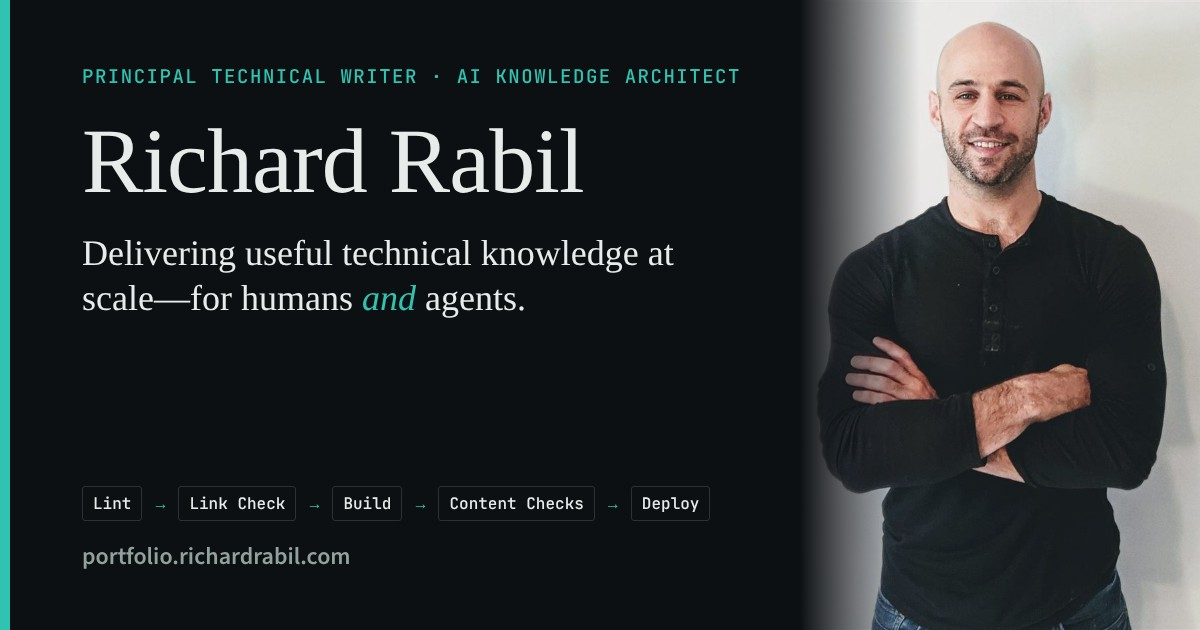
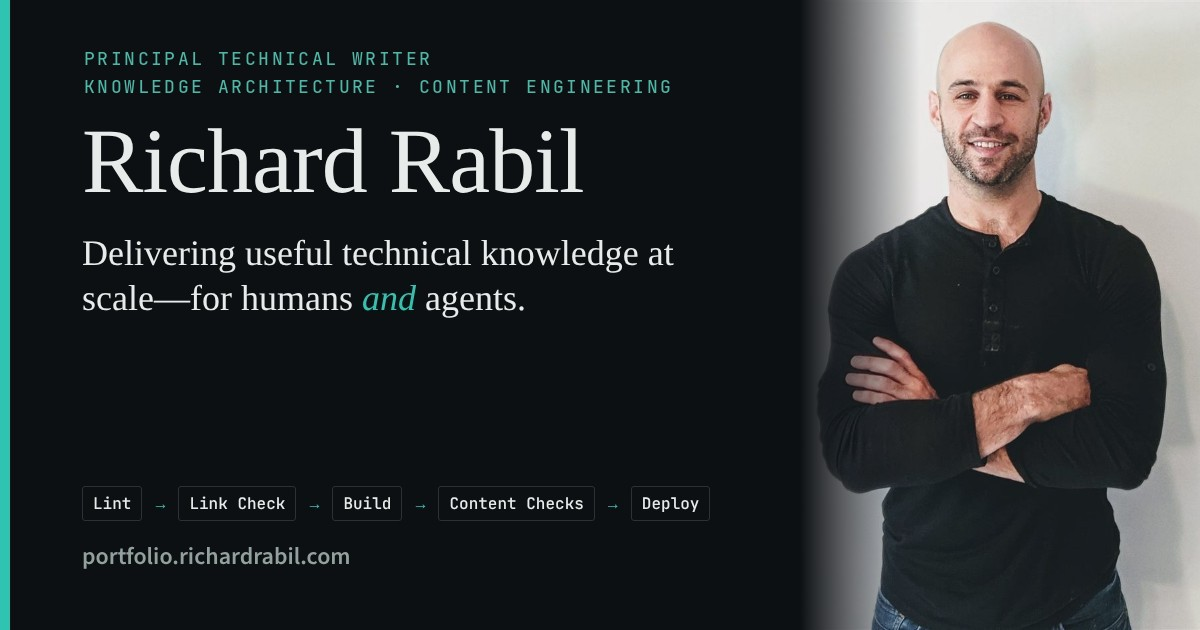
Apply the three-part identity across the site
One title plus two practices: Principal Technical Writer, Knowledge
Architecture, Content Engineering. "AI" leaves the title.

- Home: new headline line; "Dual Identity" becomes a "Three Layers"
  section drawn as stacked layers. home.md twin updated to match.
- Work: four sections (Technical Communication, Knowledge Architecture,
  Content Engineering, Career & Craft); "Agents and Skills" folded into
  Content Engineering.
- Resume headline, About section headings, page descriptions, tagline,
  llms.txt text, and social card updated.
- Doc Detective specs follow the new headings and resume headline.
- AGENTS.md records the identity and the practice/type/skills/tools labels.

Claude-Session: https://claude.ai/code/session_01XeLNcGm4LAjSfaYi5VFciD

Changed region(s): [[0.0617, 0.0603, 0.6167, 0.1508]]

diff --git a/src/pages/index.js b/src/pages/index.js
@@ -55,6 +55,45 @@ const samples = [
   },
 ];
 
+const layers = [
+  {
+    name: 'Technical Communication',
+    tag: 'The docs people read',
+    body: (
+      <>
+        I write docs that people read and use. I research complex products,
+        organize what I learn, and present it so readers find the answer fast.
+        I hold a master&apos;s degree in technical communication.
+      </>
+    ),
+  },
+  {
+    name: 'Knowledge Architecture',
+    tag: 'The structure under the docs',
+    body: (
+      <>
+        I design the structure under the docs: information architecture,
+        content models, taxonomy, and metadata. I also set the governance rules
+        that keep a knowledge system healthy as it grows. Good structure helps
+        people find answers, and it helps AI agents retrieve them.
+      </>
+    ),
+  },
+  {
+    name: 'Content Engineering',
+    tag: 'The systems that run them',
+    body: (
+      <>
+        I build the systems that create, check, and publish the docs. I work in
+        docs-as-code: plain text in Git, with automated style and link checks
+        before anything goes live. I also build AI workflows and agent skills.
+        This site is a working example:{' '}
+        <Link to="/how-i-built-this">see how I built it</Link>.
+      </>
+    ),
+  },
+];
+
 const pipelineStages = ['Lint', 'Link Check', 'Build', 'Content Checks', 'Deploy'];
 
 export default function Home() {
@@ -62,11 +101,11 @@ export default function Home() {
   return (
     <Layout
       title="Richard Rabil"
-      description="Principal Technical Writer & AI Knowledge Architect">
+      description="Principal Technical Writer · Knowledge Architecture · Content Engineering">
       <main className={styles.wrap}>
         <section className={styles.hero}>
           <p className={styles.eyebrow}>
-            Principal Technical Writer—AI Knowledge Architect
+            Principal Technical Writer · Knowledge Architecture · Content Engineering
           </p>
           <h1 className={styles.heroHeadline}>
             Delivering useful technical knowledge at scale—for humans and agents.
@@ -108,28 +147,21 @@ export default function Home() {
 
         <section className={styles.section}>
           <div className={styles.sectionHead}>
-            <p className={styles.eyebrow}>Dual Identity</p>
+            <p className={styles.eyebrow}>Three Layers</p>
             <h2>What I do.</h2>
           </div>
-          <div className={styles.identityGrid}>
-            <div className={styles.identityPanel}>
-              <h3>Technical Communication</h3>
-              <p>
-                With a master's degree in technical communication, I'm an expert in researching and
-                organizing complex technical information, designing attractive documents, and creating
-                content that people actually read.
-              </p>
-            </div>
-            <div className={styles.identityRule} />
-            <div className={styles.identityPanel}>
-              <h3>AI Knowledge Architecture</h3>
-              <p>
-                I build AI knowledge assets and governance frameworks that enable teams (and agents!) to deliver quality knowledge to their audiences as the docs grow. This site is
-                proof: a <Link to="/how-i-built-this">docs-as-code pipeline</Link> that lints prose,
-                validates links, and deploys vetted content via CI/CD.
-              </p>
-            </div>
-          </div>
+          <ol className={styles.layerStack}>
+            {layers.map((layer, i) => (
+              <li className={styles.layer} key={layer.name}>
+                <div className={styles.layerLabel}>
+                  <span className={styles.layerNumber}>0{i + 1}</span>
+                  <span className={styles.layerTag}>{layer.tag}</span>
+                  <h3>{layer.name}</h3>
+                </div>
+                <p className={styles.layerText}>{layer.body}</p>
+              </li>
+            ))}
+          </ol>
           <Link className={styles.sectionLink} to="/about">
             More About Me →
           </Link>

diff --git a/src/pages/index.module.css b/src/pages/index.module.css
@@ -97,34 +97,77 @@
   margin: 0;
 }
 
-.identityGrid {
+.layerStack {
+  list-style: none;
+  margin: 0;
+  padding: 0;
   display: grid;
-  grid-template-columns: 1fr 1px 1fr;
-  gap: 44px;
+  gap: 10px;
 }
 
-.identityRule {
-  background: var(--rule);
+/* Each layer sits on the one below it, like an exploded diagram: the docs on
+   top, the structure under them, the systems at the base. Each lower layer is
+   inset a little more and has a stronger accent edge. */
+.layer {
+  display: grid;
+  grid-template-columns: minmax(220px, 300px) 1fr;
+  gap: 32px;
+  padding: 26px 28px;
+  border: 1px solid var(--rule);
+  border-left: 3px solid var(--accent);
+  background: var(--bg-surface);
 }
 
-.identityPanel h3 {
+.layer:nth-child(1) {
+  border-left-color: color-mix(in srgb, var(--accent) 45%, transparent);
+}
+
+.layer:nth-child(2) {
+  margin-left: 18px;
+  border-left-color: color-mix(in srgb, var(--accent) 72%, transparent);
+}
+
+.layer:nth-child(3) {
+  margin-left: 36px;
+}
+
+.layerLabel h3 {
   font-family: var(--font-display);
   font-size: 1.3rem;
-  margin: 0 0 14px;
+  margin: 4px 0 0;
 }
 
-.identityPanel p {
-  max-width: 58ch;
+.layerNumber {
+  font-family: var(--font-mono);
+  font-size: 0.72rem;
+  color: var(--accent);
+  margin-right: 10px;
+}
+
+.layerTag {
+  font-family: var(--font-mono);
+  font-size: 0.72rem;
+  letter-spacing: 0.08em;
+  text-transform: uppercase;
+  color: var(--text-muted);
+}
+
+.layerText {
+  max-width: 62ch;
+  margin: 0;
   color: var(--text-muted);
   font-size: 0.98rem;
 }
 
 @media (max-width: 760px) {
-  .identityGrid {
+  .layer {
     grid-template-columns: 1fr;
+    gap: 12px;
+    padding: 22px 20px;
   }
-  .identityRule {
-    display: none;
+  .layer:nth-child(2),
+  .layer:nth-child(3) {
+    margin-left: 0;
   }
 }
 

diff --git a/docusaurus.config.js b/docusaurus.config.js
@@ -5,7 +5,7 @@ import {GlobExcludeDefault} from '@docusaurus/utils';
 /** @type {import('@docusaurus/types').Config} */
 const config = {
   title: 'Richard Rabil',
-  tagline: 'Principal Technical Writer & AI Knowledge Architect',
+  tagline: 'Principal Technical Writer · Knowledge Architecture · Content Engineering',
   favicon: 'img/favicon.ico',
 
   future: {
@@ -68,7 +68,7 @@ const config = {
         {
           property: 'og:image:alt',
           content:
-            'Richard Rabil, Principal Technical Writer and AI Knowledge Architect: delivering useful technical knowledge at scale, for humans and agents.',
+            'Richard Rabil, Principal Technical Writer, with practices in knowledge architecture and content engineering: delivering useful technical knowledge at scale, for humans and agents.',
         },
       ],
       colorMode: {

diff --git a/AGENTS.md b/AGENTS.md
@@ -4,7 +4,7 @@ Tool-agnostic project context for AI coding agents (Claude Code, Codex, or other
 
 ## Project overview
 
-Personal portfolio site for Richard Rabil, Principal Technical Writer & AI Knowledge Architect. The site itself is a demonstration artifact: it embodies a scalable docs-as-code implementation. The purpose is to demonstrate mastery of technical writing at a senior level and establish credibility in AI-assisted knowledge architecture.
+Personal portfolio site for Richard Rabil, Principal Technical Writer, with practices in knowledge architecture and content engineering. The site itself is a demonstration artifact: it embodies a scalable docs-as-code implementation. The purpose is to demonstrate mastery of technical writing at a senior level and establish credibility in AI-assisted knowledge architecture.
 
 Follows common docs-as-code portfolio conventions: a Markdown/MDX static site generator, automated prose linting, automated link checking, and a transparent "how this was built" narrative page — general best practices for demonstrating technical-writing and AI-collaboration credibility.
 
@@ -103,11 +103,11 @@ GitHub Pages is a static host with no server-side content negotiation, so agents
 
 **Done (was a backlog idea):** How I Built This, Documentation Pipeline Portfolio, and Doc Detective Examples have been consolidated into a single page (`src/pages/how-i-built-this.md`). The three pages had real content overlap — all three narrated the same CI pipeline at different levels of detail. The two retired pages were archived outside the repo (under `Career/portfolio-archive/retired-pages/`) rather than only deleted, and they remain in git history at commit `367eb9d`.
 
-**Home** (`src/pages/index.js`, hand-written React, plus `src/pages/home.md`, its hand-authored Markdown twin for the machine-readable content layer — see that section) — written. Hero (dual identity, "creating useful documentation at scale"; buttons: View My Work, View My Resume, Contact Me on LinkedIn), "What I do" (Technical Communication vs. AI Knowledge Architecture panels), "Selected Work" (six cards: three publications, three Oracle Utilities docs samples), "What Is This Site?" (the five-stage pipeline as proof, not metaphor), "Want to Get in Touch?" (LinkedIn and Resume page links). If `index.js`'s content changes, update `home.md` to match — nothing keeps them in sync automatically.
+**Home** (`src/pages/index.js`, hand-written React, plus `src/pages/home.md`, its hand-authored Markdown twin for the machine-readable content layer — see that section) — written. Hero (headline line "Principal Technical Writer · Knowledge Architecture · Content Engineering", "Delivering useful technical knowledge at scale—for humans and agents"; buttons: View My Work, View My Resume, Contact Me on LinkedIn), "What I do" (Three Layers: Technical Communication, Knowledge Architecture, Content Engineering, drawn as stacked layers—docs on top, structure under them, systems at the base), "Selected Work" (six cards: three publications, three Oracle Utilities docs samples), "What Is This Site?" (the five-stage pipeline as proof, not metaphor), "Want to Get in Touch?" (LinkedIn and Resume page links). If `index.js`'s content changes, update `home.md` to match — nothing keeps them in sync automatically.
 
-**About Me** (`src/pages/about.md`) — written. States the dual identity in prose: one section on why Richard writes (technical-communication background, MA in Tech Comm), one on the "systems mindset" (governance, IA, content lifecycle across Opower and Oracle), one on where AI comes in (knowledge architecture, prompts/skills/agents). Explicitly notes the words on the page are human-written even though AI helped with scaffolding — reinforces the judgment-over-tool-fluency positioning. Not a resume-bullet dump.
+**About Me** (`src/pages/about.md`) — written. States the three practices in prose, one section each (headings start with the practice name): one section on why Richard writes (technical-communication background, MA in Tech Comm), one on the "systems mindset" (governance, IA, content lifecycle across Opower and Oracle), one on where AI comes in (knowledge architecture, prompts/skills/agents). Explicitly notes the words on the page are human-written even though AI helped with scaffolding — reinforces the judgment-over-tool-fluency positioning. Not a resume-bullet dump.
 
-**Work** (`docs/portfolio/samples.md`, nav item) — written. Existing published pieces (Document360 podcast, STC Intercom, A List Apart), each linking to the original external source rather than reproducing content. Home page surfaces the same three as "Selected Work" cards. Ends with an "Agents and Skills" section that cross-links into How I Built This — its Content Pipeline, Doc Detective Checks, Skills, and AGENTS.md sections. Work points outward to the content-engineering side rather than duplicating it.
+**Work** (`docs/portfolio/samples.md`, nav item) — written. Existing published pieces (Document360 podcast, STC Intercom, A List Apart), each linking to the original external source rather than reproducing content. Home page surfaces the same three as "Selected Work" cards. Four sections: Technical Communication, Knowledge Architecture, Content Engineering, and Career & Craft (see "Three-part identity and labels"). The Content Engineering section cross-links into How I Built This — its Content Pipeline, Doc Detective Checks, Skills, and AGENTS.md sections (the old standalone "Agents and Skills" section was folded in on 2026-11-19). Work points outward to the content-engineering side rather than duplicating it.
 
 **Skills & Agents** (`docs/skills-agents/`) — **retired 2026-09-22, do not recreate without a deliberate decision.** The section held `standing-rules-vs-memory.md` (an overview page whose intro and two of three subsections were still "Content coming soon") and `evaluating-third-party-skills.md` (a written case study comparing and merging two third-party AI-editing skills). Rather than finish the section, it was removed: the Work page's "Agents and Skills" section now links straight to the Skills and AGENTS.md sections of How I Built This, which cover the same ground with real content. Both files were archived to `Career/portfolio-archive/retired-pages/2026-09-22-skills-agents-removal/` and remain in git history at commit `203296e`. The standing-rules-versus-accumulated-memory distinction it was meant to explain is still unwritten anywhere on the site; if it returns, it needs a deliberate home rather than a rebuilt placeholder section.
 
@@ -137,11 +137,23 @@ Note: the earlier version of this page carried an "Editorial judgment" section (
 
 ## Messaging & positioning context (for content generation, not code)
 
-- Dual identity: Principal Technical Writer + AI Knowledge Architect.
+- Three-part identity (decided 2026-11-19, replaces the old "dual identity"): one title, Principal Technical Writer, plus two practices, Knowledge Architecture and Content Engineering. "AI" is no longer in the title; it runs through all three practices. See "Three-part identity and labels" below.
 - Differentiator to emphasize throughout the site: judgment over tool-fluency — documented evidence of knowing when and why to override AI output, not just AI tool use itself.
 - New, related differentiator to start weaving in: serving human readers and AI agents as first-class audiences at once, not sequentially — content and structure (this file included) designed to be equally legible to a person and to an agent parsing it. Frame this as a natural extension of the governance-framework work, not a separate gimmick.
 - Resume stays broad/high-level; specific narrow evidence is reserved for other written materials and site narrative pages like "How I Built This" — not for resume bullets.
 - Domain expertise to leverage: DITA/Oxygen migrations, docs-as-code, Confluence governance, Oracle Utilities domain knowledge (usage data, billing, meter readings).
+
+## Three-part identity and labels
+
+Decided with Richard on 2026-11-19. Use these words everywhere: headline, Work sections, resume, About, page descriptions.
+
+- **Technical Communication**: docs people read. Document types such as user, admin, integration, and API docs live here.
+- **Knowledge Architecture**: the structure under the docs. Umbrella over information architecture, content models, taxonomy, metadata, governance, and knowledge management. Keep "knowledge management" visible as a keyword.
+- **Content Engineering**: the systems that build, check, and publish docs: docs-as-code, pipelines, AI workflows, agent skills.
+
+Tests for borderline items: knowledge architecture produces decisions and models; content engineering produces things that run. Knowledge architecture is the structure; knowledge management is the people and habits around it.
+
+**Labels** (for Work cards and future detail pages): `practice` (exactly one of the three above), `type` (what kind of thing: User guide, API reference, Specification, Knowledge base, Migration, Pipeline, Article, Talk…), `skills` (what was done: Information architecture, Content modeling, Taxonomy and metadata, Knowledge management, Docs-as-code, AI workflows, Governance, Editing…), `tools` (what was used: Git, Markdown, DITA/XML, Docusaurus, Vale, MadCap Flare, Confluence, Jira, Quarto, Claude Code, Codex…). Rule of thumb: a kind of document is a type, a way of working is a skill, a product is a tool. A new practice should be rare.
 
 ## Standing rules for agents working in this repo
 

diff --git a/docs/portfolio/samples.md b/docs/portfolio/samples.md
@@ -2,7 +2,7 @@
 sidebar_position: 1
 hide_table_of_contents: false
 title: Work
-description: Published, production work spanning technical writing, information architecture and knowledge management, and AI and content engineering.
+description: Published, production work in three practices—technical communication, knowledge architecture, and content engineering—plus writing on the craft.
 ---
 
 import SampleGrid from '@site/src/components/SampleGrid';
@@ -10,37 +10,30 @@ import {technicalWriting, iaKm, aiKnowledge, careerCraft} from '@site/src/compon
 
 # Work
 
-Below is a sample of my published work spanning technical writing, information architecture and knowledge management, and AI and content engineering. In some cases the original venue is paywalled, and I've linked to an archived copy on my blog instead. My AI knowledge architecture and content engineering work is mostly proprietary, so that section points to my own writing about the practice, as well as this site as a working example (and to my [resume](/resume) for project specifics).
+My work falls into three practices that build on each other: technical communication (the docs people read), knowledge architecture (the structure under the docs), and content engineering (the systems that run them). Below is a sample of my published work in each, plus writing on the craft itself. In some cases the original venue is paywalled, and I've linked to an archived copy on my blog instead.
 
-## Technical Writing & Documentation
+## Technical Communication
 
-Published artifacts for SaaS and enterprise software, and various other technical use cases.
+Technical writing and documentation for SaaS and enterprise products: user, admin, integration, and API docs.
 
 <SampleGrid items={technicalWriting} />
 
-## Information Architecture & Knowledge Management
+## Knowledge Architecture
 
-Published thinking on organizing, scaling, and governing documentation systems.
+Information architecture, content models, taxonomy, and knowledge management: the structure that keeps docs findable, consistent, and ready for AI.
 
 <SampleGrid items={iaKm} />
 
-## AI & Content Engineering
+## Content Engineering
 
-Most of the AI knowledge architecture and content engineering work I do professionally is proprietary and can't be shared directly. What I can point to: this site itself—a docs-as-code pipeline that lints prose, checks links, and so on—documented in more detail in [How I Built This](/how-i-built-this); my writing on the practice, below; and specific project examples in my [resume](/resume).
+Docs-as-code, publishing pipelines, AI workflows, and agent skills.
+
+Most of the content engineering work I do professionally is proprietary and can't be shared directly. What I can point to: this site itself, a docs-as-code pipeline documented in [How I Built This](/how-i-built-this) (see its [content pipeline](/how-i-built-this#content-pipeline), [Doc Detective checks](/how-i-built-this#doc-detective-checks), [skills](/how-i-built-this#skills), and [AGENTS.md](/how-i-built-this#agentsmd)); my writing on the practice, below; and specific project examples in my [resume](/resume).
 
 <SampleGrid items={aiKnowledge} />
 
-## Career & Craft Perspectives
+## Career & Craft
 
-Additional writing on hiring, evaluating writers, and the craft itself.
+Writing on the craft of technical communication.
 
 <SampleGrid items={careerCraft} />
-
-## Agents and Skills
-
-See the content-engineering side of this
-work under [How I Built This](/how-i-built-this): the
-[content pipeline](/how-i-built-this#content-pipeline),
-[Doc Detective checks](/how-i-built-this#doc-detective-checks),
-[skills](/how-i-built-this#skills), and
-[AGENTS.md](/how-i-built-this#agentsmd).

diff --git a/src/pages/about.md b/src/pages/about.md
@@ -1,6 +1,6 @@
 ---
 title: About Me
-description: Principal Technical Writer & AI Knowledge Architect.
+description: Principal Technical Writer working across technical communication, knowledge architecture, and content engineering.
 ---
 
 import styles from './about.module.css';
@@ -17,11 +17,11 @@ import styles from './about.module.css';
 
 I'm a principal technical writer and knowledge architect with 20+ years of experience in the tech industry and a master's degree in technical communication. [I've long believed](https://richardrabil.com/2017/10/20/get-into-technical-writing/) that a culture like ours needs conscientious communicators who can craft quality documentation about the things we build, and deliver knowledge to the right people at the right time.
 
-## Creating Quality Docs
+## Technical Communication: Creating Quality Docs
 
 Documentation is only useful if people can discover and apply it to perform their tasks correctly. That not only means writing content that's findable, structured, consistent, accurate, and all the other adjectives typically applied to good writing. It also means designing content so it is visually approachable through methods like scannable layouts, thoughtful formatting, and design choices that invite trust. Every day it's my goal to bring about this combination of form and function to achieve *deep* quality, not just *functional* quality. (I even made this philosophy the [subject of a podcast](https://document360.com/blog/why-aesthetics-matter-in-technical-docs-with-richard-oracle/).)
 
-## From Pages to Systems
+## Knowledge Architecture: From Pages to Systems
 
 In addition to developing quality content, I am keenly interested in *systems*, *structure*, and *scale*: how to build knowledge so it can grow, how to organize it so it flows, and how to keep it healthy over time. I'm constantly asking questions like:
 
@@ -31,7 +31,7 @@ In addition to developing quality content, I am keenly interested in *systems*, 
 
 These questions have led me into many overlapping disciplines, from technical writing and information architecture to content engineering and knowledge management. I frequently take on "team lead," "editorial director," and "architect" roles for large documentation projects in the organizations I work for: setting up information models and governance, designing templates and status dashboards, defining the content strategy for content lifecycles, and sharing best practices and articles about the latest techniques and trends in the field.
 
-## Where AI Comes In
+## Content Engineering: Where AI Comes In
 
 The explosive growth of AI has taken technical writing and knowledge management in all sorts of new directions. It's critical right now for writers to think holistically about how to cultivate content in systems that are responsive to AI tools and agents without losing sight of what human users really need.
 

diff --git a/src/pages/home.md b/src/pages/home.md
@@ -1,11 +1,11 @@
 ---
 title: Richard Rabil
-description: Principal Technical Writer & AI Knowledge Architect.
+description: Principal Technical Writer, with practices in knowledge architecture and content engineering.
 ---
 
 # Richard Rabil
 
-**Principal Technical Writer—AI Knowledge Architect**
+**Principal Technical Writer · Knowledge Architecture · Content Engineering**
 
 Delivering useful technical knowledge at scale—for humans *and* agents.
 
@@ -17,11 +17,11 @@ Hi, I'm Richard. I bring 20+ years of experience creating product and engineerin
 
 ## What I do
 
-**Dual Identity**
+**Three Layers**
 
-Technical Communication—With a master's degree in technical communication, I'm an expert in researching and organizing complex technical information, designing attractive documents, and creating content that people actually read.
-
-AI Knowledge Architecture—I build AI knowledge assets and governance frameworks that enable teams (and agents!) to deliver quality knowledge to their audiences as the docs grow. This site is proof: a [docs-as-code pipeline](/how-i-built-this) that lints prose, validates links, and deploys vetted content via CI/CD.
+1. **Technical Communication** (the docs people read): I write docs that people read and use. I research complex products, organize what I learn, and present it so readers find the answer fast. I hold a master's degree in technical communication.
+2. **Knowledge Architecture** (the structure under the docs): I design the structure under the docs: information architecture, content models, taxonomy, and metadata. I also set the governance rules that keep a knowledge system healthy as it grows. Good structure helps people find answers, and it helps AI agents retrieve them.
+3. **Content Engineering** (the systems that run them): I build the systems that create, check, and publish the docs. I work in docs-as-code: plain text in Git, with automated style and link checks before anything goes live. I also build AI workflows and agent skills. This site is a working example: [see how I built it](/how-i-built-this).
 
 [More About Me](/about)
 

diff --git a/src/pages/resume.md b/src/pages/resume.md
@@ -1,11 +1,11 @@
 ---
 title: Resume
-description: Principal Technical Writer & AI Knowledge Architect—work experience, tools, and publications.
+description: Principal Technical Writer with practices in knowledge architecture and content engineering—work experience, tools, and publications.
 ---
 
 # Richard Rabil, Jr.
 
-**Principal Technical Writer | Product & Engineering Documentation | AI Knowledge Architecture**
+**Principal Technical Writer | Knowledge Architecture | Content Engineering & Docs-as-Code**
 
 20+ years creating technical docs to help people understand and use SaaS and enterprise products. Experienced in fast-paced corporate and startup environments, building knowledge systems and information architectures that enable teams to learn and operate products faster. I also design AI-augmented workflows and the governance that keeps content trustworthy at scale.
 
